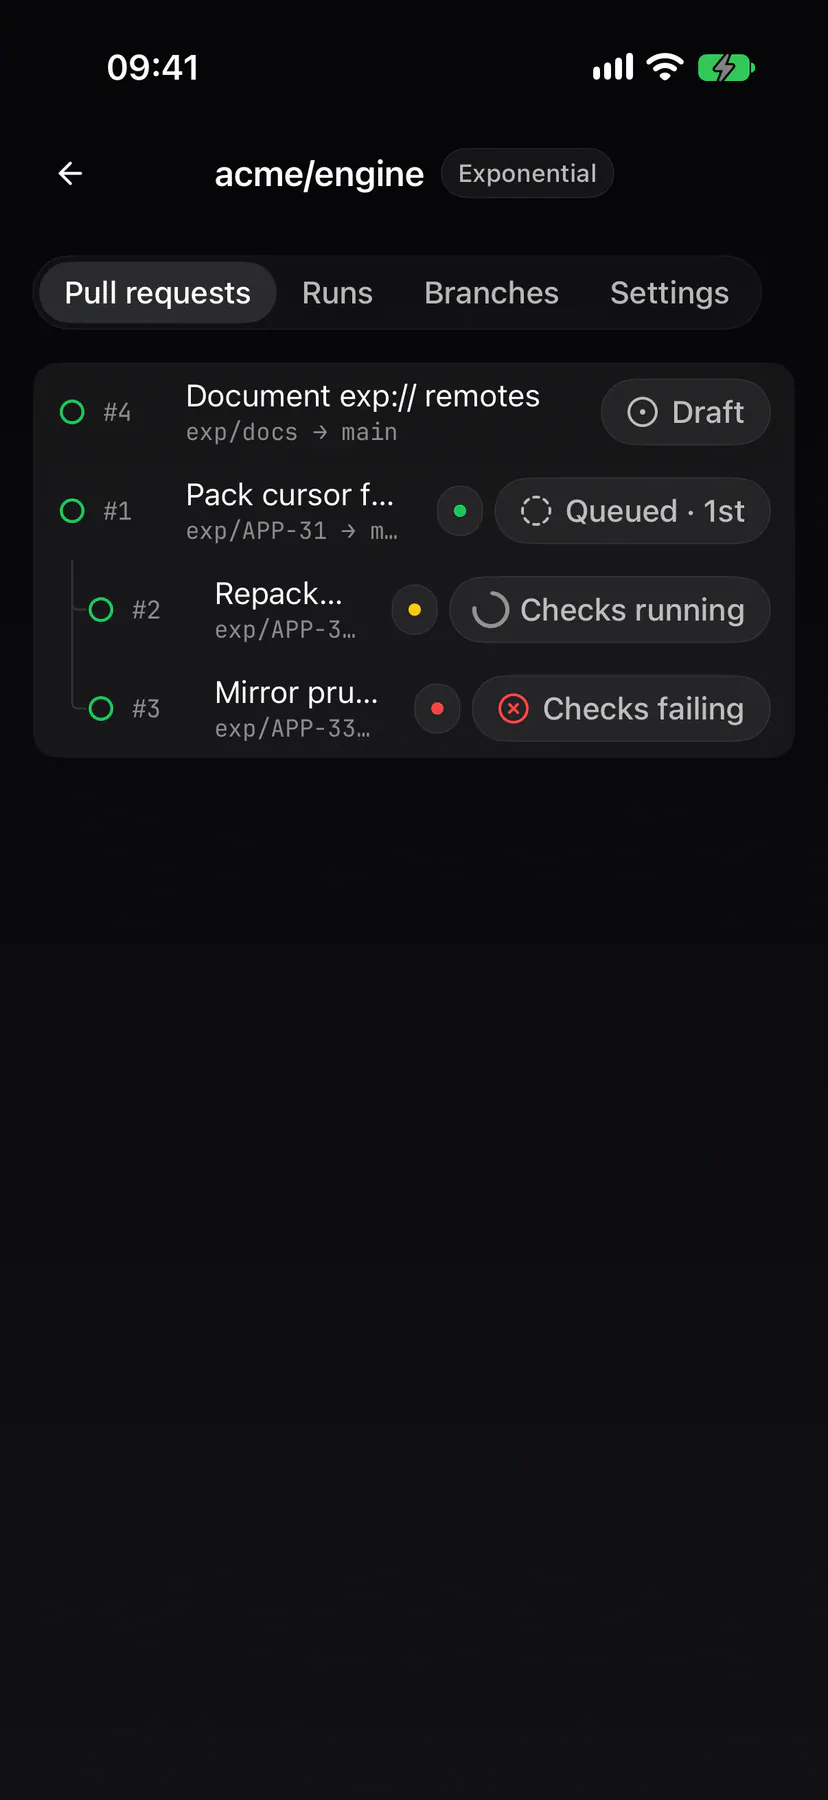
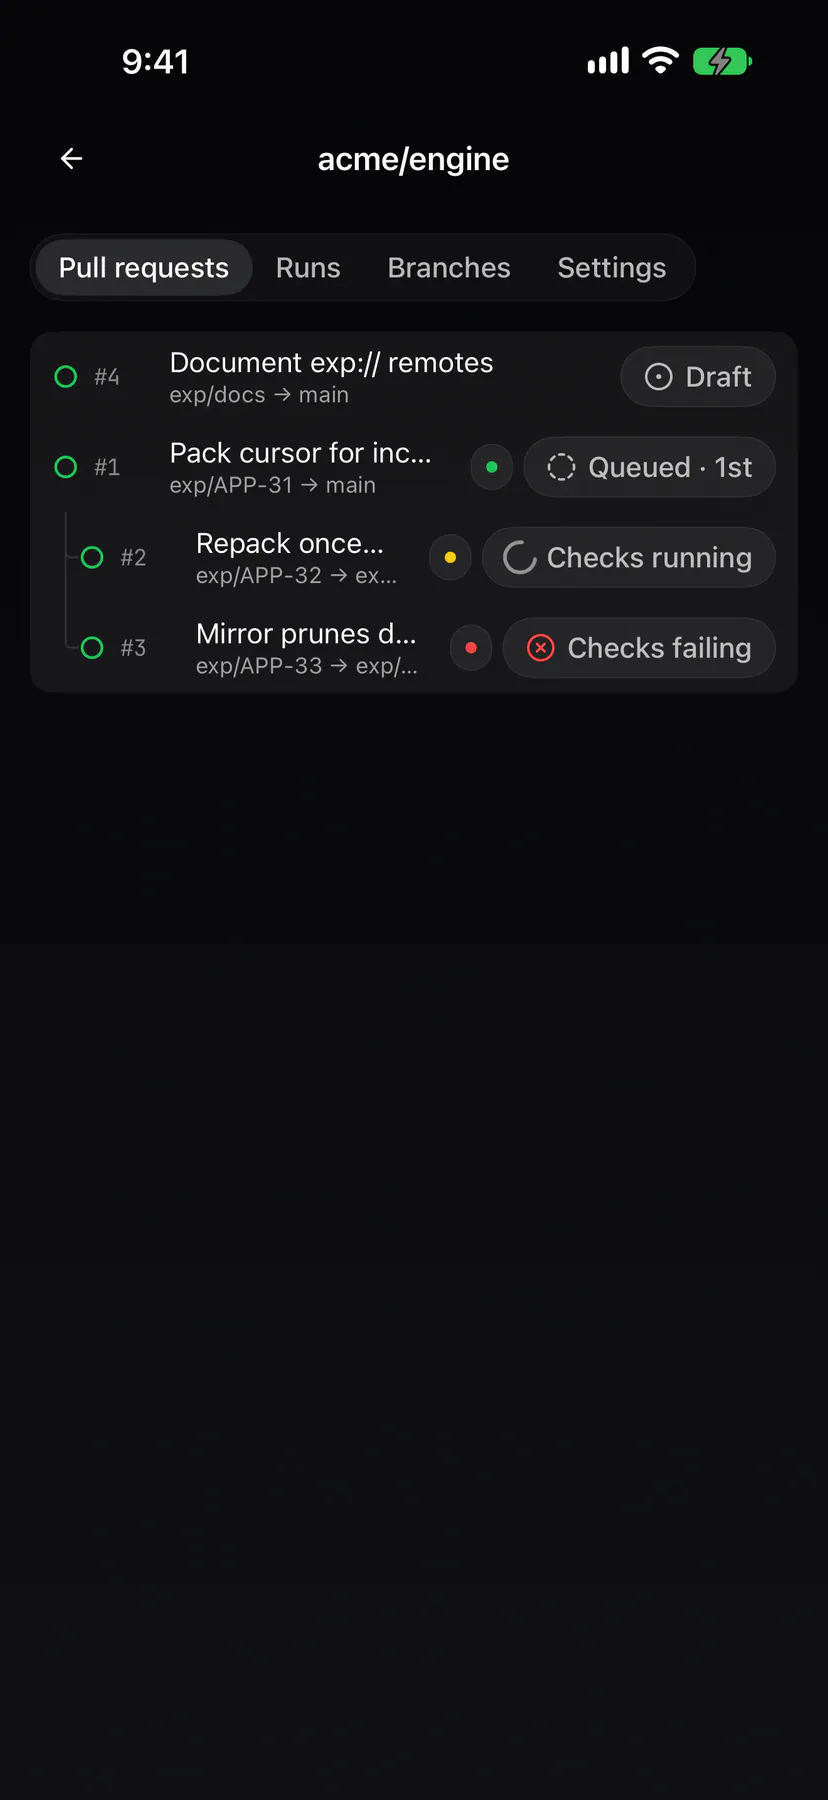
EXP-1616: iOS repo page header = back + name only; PrRow subtitle in the plain Row subtitle style
Re-takes sg_repo and sg_settings-repositories on iOS.

diff --git a/apps/ios/Exponential/UI/Settings/RepoPageView.swift b/apps/ios/Exponential/UI/Settings/RepoPageView.swift
@@ -4,8 +4,8 @@ import GRDB
 import SwiftUI
 
 /// #EXP-1616 THE REPO PAGE (repo-page.json, view `repo`; web
-/// `repo-page.tsx`): the AppBar (back, the repo's name, its provider pill)
-/// over the pill tabs Pull requests · Runs · Branches · Settings. The PRs
+/// `repo-page.tsx`): the AppBar (back + the repo's full name ONLY; the
+/// provider lives in Settings and on the Repositories row) over the pill tabs Pull requests · Runs · Branches · Settings. The PRs
 /// are the synced `pull_requests` rows; branches and settings load on demand.
 struct RepoPageView: View {
     let teamId: String
@@ -37,16 +37,11 @@ struct RepoPageView: View {
         .navigationBarTitleDisplayMode(.inline)
         .toolbar {
             ToolbarItem(placement: .principal) {
-                HStack(spacing: 8) {
-                    Text(repo?.fullName ?? "")
-                        .font(.headline)
-                        .foregroundStyle(.white)
-                        .lineLimit(1)
-                        .truncationMode(.middle)
-                    if let repo {
-                        RepoProviderPill(provider: repo.provider)
-                    }
-                }
+                Text(repo?.fullName ?? "")
+                    .font(.headline)
+                    .foregroundStyle(.white)
+                    .lineLimit(1)
+                    .truncationMode(.middle)
             }
         }
         .toolbarBackground(.ultraThinMaterial, for: .navigationBar)

diff --git a/apps/ios/ExpUI/Sources/PrRow.swift b/apps/ios/ExpUI/Sources/PrRow.swift
@@ -66,8 +66,9 @@ public struct PrRow<Trailing: View>: View {
     ///     `base` row (mono, muted).
     ///   - word: a quiet trailing word (`stack` on a stack's top row).
     ///   - subtitle: #EXP-1616: a second line under the title (genUI
-    ///     `Row.subtitle`: the repo page's `head → base`), mono, small and
-    ///     muted; the row grows to two lines.
+    ///     `Row.subtitle`: the repo page's `head → base`) in the plain Row
+    ///     subtitle style (web `text-xs text-muted-foreground`), never mono;
+    ///     the row grows to two lines.
     ///   - guide: tree shape — this row's connector (its depth indents).
     ///   - rail: stack shape — the rail through the node centres.
     public init(
@@ -112,8 +113,8 @@ public struct PrRow<Trailing: View>: View {
                         .lineLimit(1)
                         .truncationMode(.tail)
                     Text(subtitle)
-                        .font(.expMono(size: 11.5))
-                        .foregroundStyle(.white.opacity(TextOpacity.tertiary))
+                        .font(.caption)
+                        .foregroundStyle(DesignTokens.Palette.mutedForeground)
                         .lineLimit(1)
                         .truncationMode(.tail)
                 }
